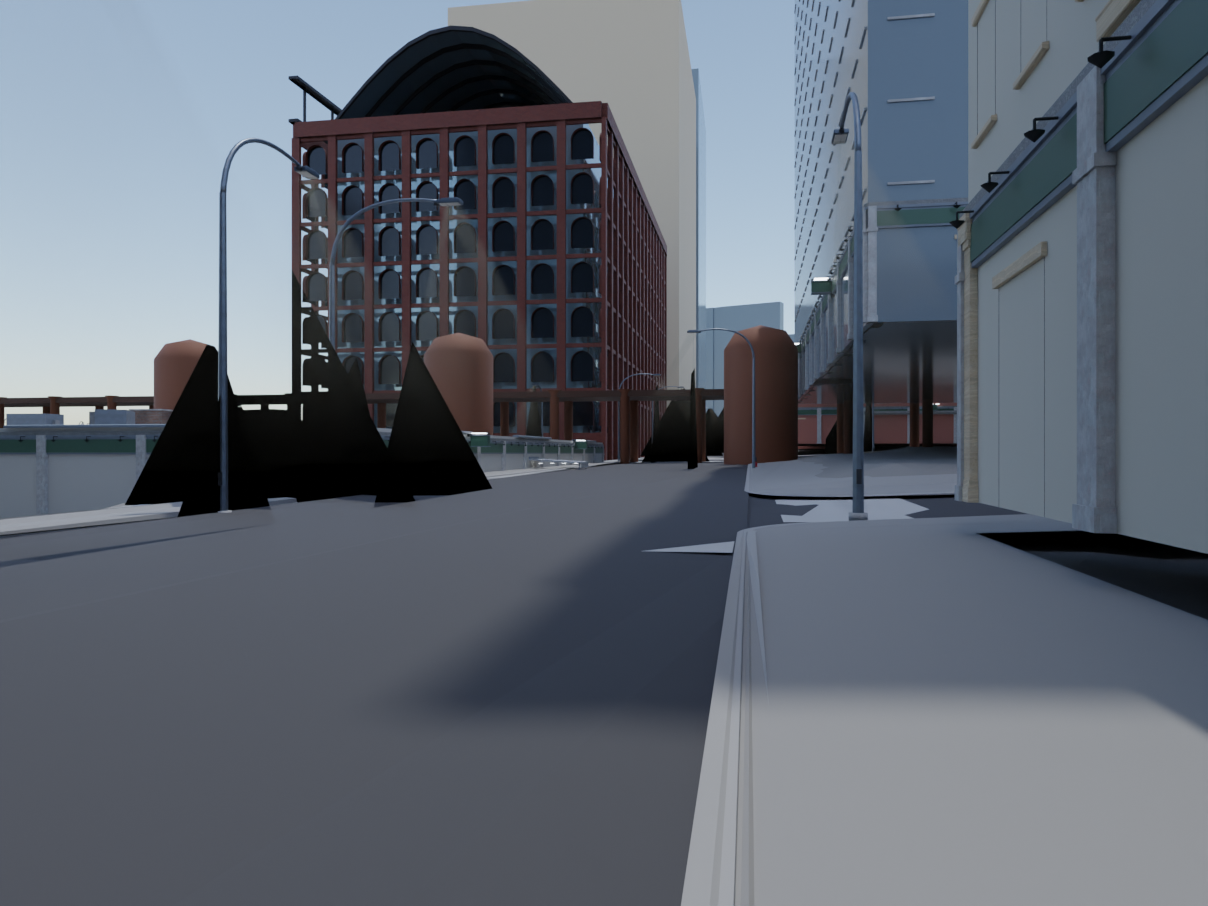
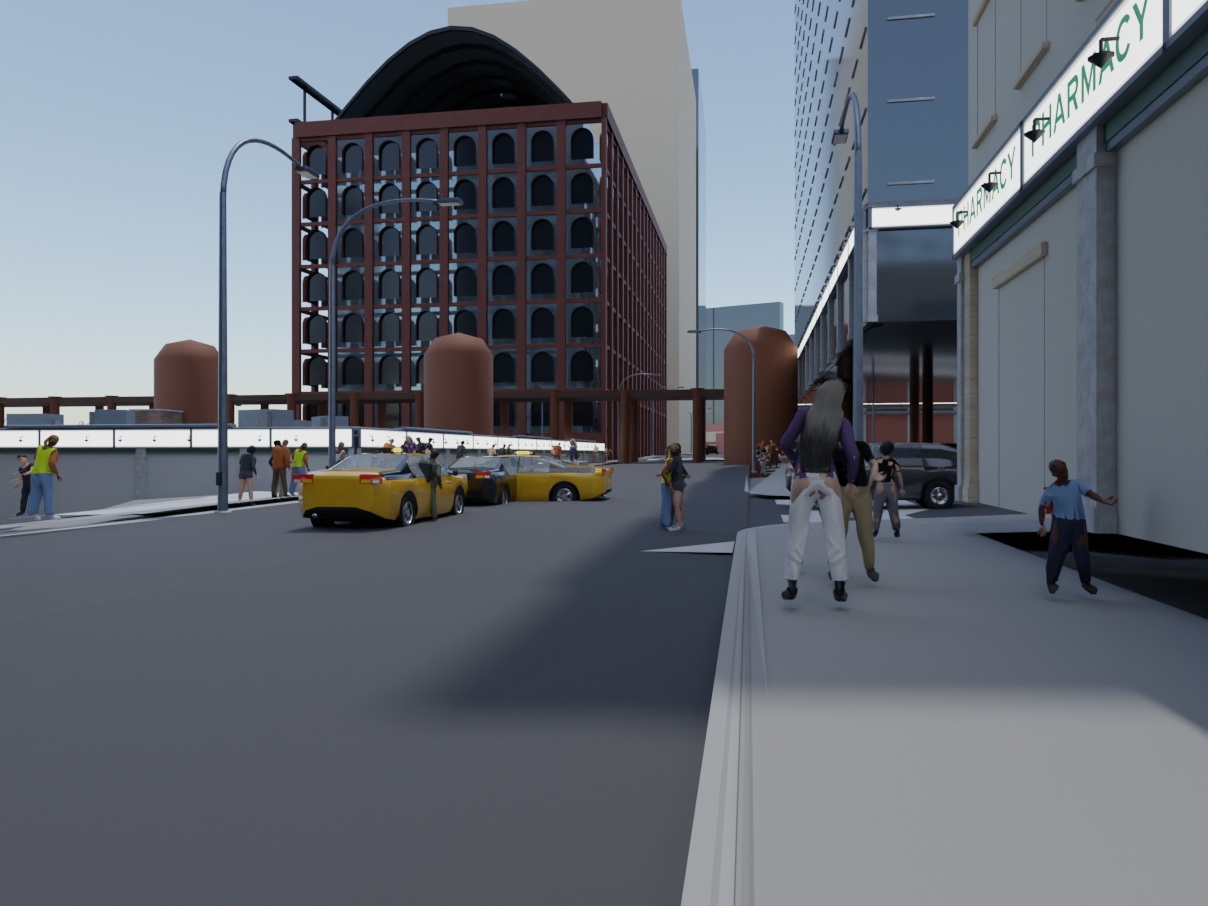
verify: Domino Sugar Refinery - one of the strongest landmark sheets in the set
Recognisable at 125.7 m and for the right reasons: the Romanesque arched window
grid across the brick mass, the barrel-vaulted glass crown of the residential
conversion inside the retained shell, the cylindrical brick tanks in front, the
elevated walkway on its columns.  78 vehicles including a rank of medallion
cabs, 311 people, PHARMACY fascias opposite from the signage stage.

Mean luminance 0.416 against 0.386, one of the closest matches in the set - and
worth saying after a run of sheets where the gap was large in one direction or
the other.

The cull removed 5 pedestrians standing inside the clearance of the final camera
position, leaving a couple on the pavement at a readable distance and a figure
at the shopfront.  That is what the 3.5 m constant was re-derived to produce.

Missing is the same class as everywhere else: flat brick colour, openings
modelled with no reveal, no sill course, no relief in the arches.  The building
has its shape and its rhythm and not its surface.

Claude-Session: https://claude.ai/code/session_012rCzdfEp56Z5bDvSJLVsiQ

diff --git a/docs/verification/comparison/landmark_domino_sugar_refinery/assessment.md b/docs/verification/comparison/landmark_domino_sugar_refinery/assessment.md
@@ -14,6 +14,25 @@
 
 **Verdict — the refinery is the best brick landmark in the set — round-arched window grid, correct red brick, the barrel-vaulted glass roof of the 2023 conversion, and the raw-sugar tanks beside it — but it has no chimney, no steel bracing and no surface, and the esplanade it stands on is a bare plane**
 
+## Re-rendered 2026-09-07 — one of the strongest landmark sheets in the set
+
+The Domino Sugar Refinery is recognisable at 125.7 m, and recognisable for the right reasons: the
+Romanesque arched window grid across the brick mass, the barrel-vaulted glass crown of the residential
+conversion sitting inside the retained shell, the cylindrical brick tanks in front, the elevated
+walkway on its columns. Two landmark models, 78 vehicles including a rank of medallion cabs, 311
+people, `PHARMACY` fascias on the block opposite from the signage stage.
+
+Mean luminance **0.416 against the photograph's 0.386** — one of the closest matches in the set, and
+worth noting after a run of sheets where the gap was large in one direction or the other.
+
+`culled_after_camera_move` removed **5 pedestrians** who stood inside the clearance of the final
+camera position. The frame keeps a couple walking the pavement at a readable distance and a third
+figure at the shopfront, which is what the 3.5 m constant was re-derived to leave.
+
+**What is missing is the same class as everywhere else**: the brickwork is a flat colour with the
+window openings modelled but no reveal, no sill course and no relief in the arches, so the building
+has its shape and its rhythm and not its surface. The roadway and pavement are untextured.
+
 ## What matches
 
 * The Refinery building is recognisably itself: a rectangular brick block with a regular grid of tall round-arched windows over six storeys, at the right footprint and the right height 82 m from the camera.
